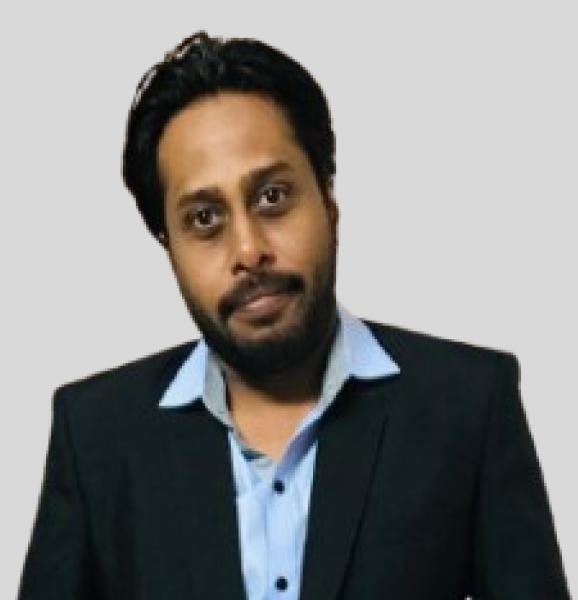
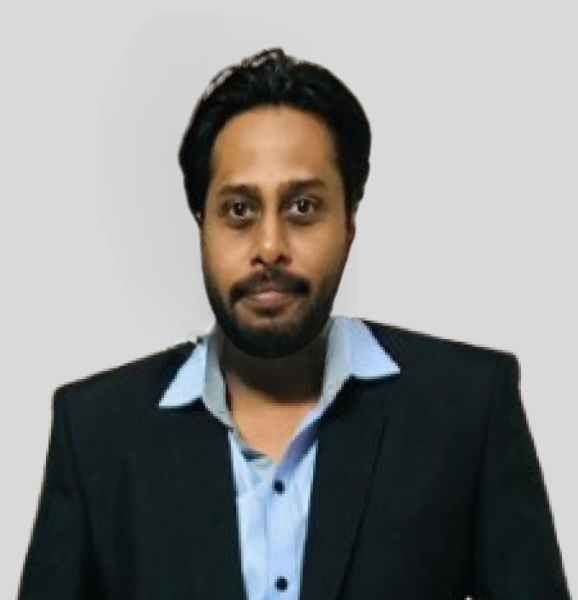
Atif Image Changes

Changed region(s): [[0.1869, 0.03, 0.654, 0.63]]

diff --git a/frontend/src/pages/Home.jsx b/frontend/src/pages/Home.jsx
@@ -376,7 +376,7 @@ const Home = () => {
                   height: 103,
                   border: "2px solid white",
                   "& img": {
-                    transform: "scale(1) translate(6px, 0px)",
+                    transform: "scale(1.1) translate(3px, 2px)",
                     transformOrigin: "center center",
                     objectFit: "contain", // ✅ important
                   },
